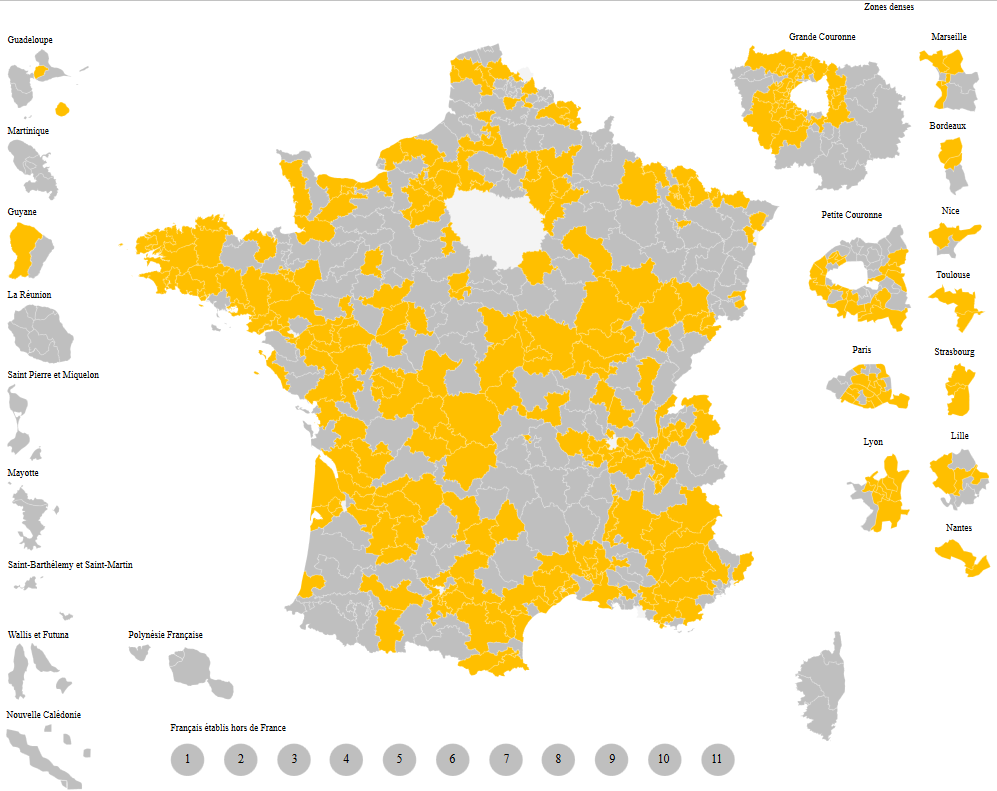
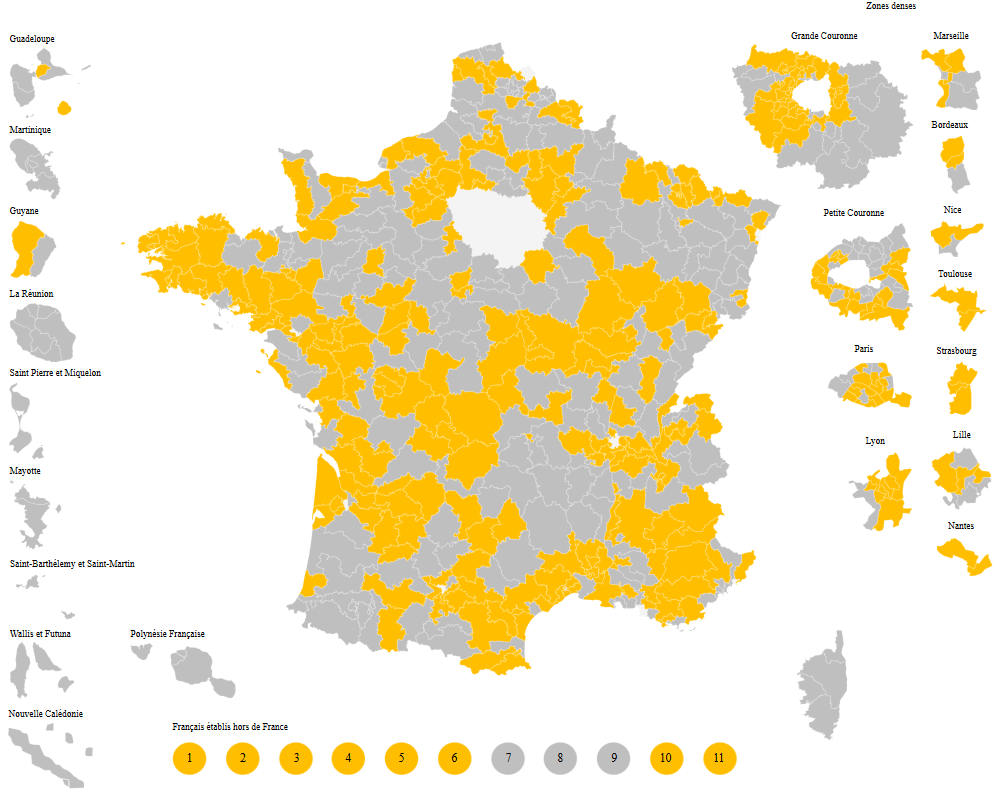
correction map rem

diff --git a/legislatives/dataviz/js/drawColorsFN.js b/legislatives/dataviz/js/drawColorsFN.js
@@ -35,7 +35,7 @@ d3.csv('data/resultatsEtr.csv')
 
 function colorMap(){
 	for(i=0;i < dataset2.length; i++){
-		if(dataset2[i].nuance == "DLF"){
+		if(dataset2[i].nuance == "REM"){
 			svg2.select('[id='+'"'+dataset2[i].code+'"'+']').style("fill", dicoNuances2[dataset2[i].nuance])
 		}
 	};
